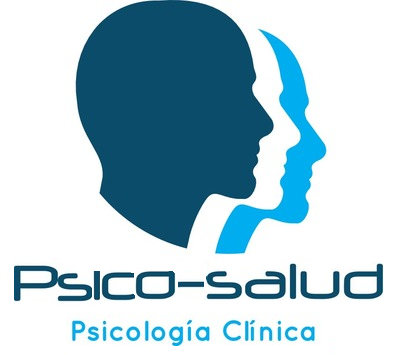
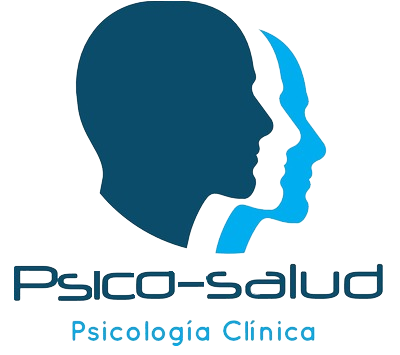
Se agrega imagen sin fondo, pacientes, modalidades y sucursales al create blade de agendamiento

diff --git a/psicosalud/resources/views/pages/agendamiento/create.blade.php b/psicosalud/resources/views/pages/agendamiento/create.blade.php
@@ -23,13 +23,38 @@
   			 <br/>
   			<div class="col-md-5">
   			<select name="paciente" class="form-control selectpicker">
-                <option value="" >Seleccionar paciente</option>
+                <option value="" >--- Seleccionar paciente ---</option>
                 @foreach($pacientes as $paciente)
                   <option value="{{ $paciente->id }}">{{ $paciente->nombre }}  {{ $paciente->apellido }}</option>
                 @endforeach
              </select>
              </div>
              <div class="col-md-5"><a href="{{ route('paciente.create') }}">Crear nuevo paciente</a></div>
+  		</div>
+  		<br/>
+  		<br/>
+  		<div class="form-group">
+  			 <label for="paciente">Modalidad de consulta</label>
+  			 <br/>
+  			
+  			<select name="paciente" class="form-control selectpicker">
+                <option value="" >--- Seleccionar modalidad ---</option>
+                @foreach($modalidades as $modalidad)
+                  <option value="{{ $modalidad->id }}">{{ $modalidad->descripcion }}</option>
+                @endforeach
+             </select>
+  		</div>
+  		
+  		<div class="form-group">
+  			 <label for="paciente">Sucursal</label>
+  			 <br/>
+  			
+  			<select name="paciente" class="form-control selectpicker">
+                <option value="" >--- Seleccionar sucursal ---</option>
+                @foreach($sucursales as $sucursal)
+                  <option value="{{ $sucursal->id }}">{{ $sucursal->nombre }}</option>
+                @endforeach
+             </select>
   		</div>
 
       

diff --git a/psicosalud/resources/views/pages/home.blade.php b/psicosalud/resources/views/pages/home.blade.php
@@ -9,7 +9,9 @@
 
 <div class="container-fluid">
   <div class="row">
+    <div style="margin-top:150px;">
     <center><img class="img-responsive" src="/img/psa.png" alt="Logo"></center>  
+    </div>
   </div>
 </div>
 
